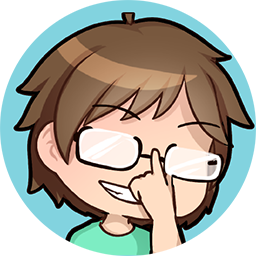
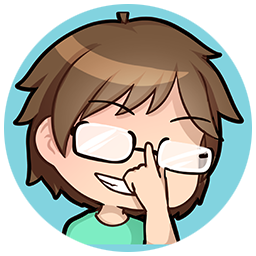
Refresh settings layout and menu integration

diff --git a/ClockAndVolume/UI/MenuButtonManager.cs b/ClockAndVolume/UI/MenuButtonManager.cs
@@ -20,12 +20,12 @@ namespace ClockAndVolume.UI
 
 		public void Initialize()
 		{
-			MenuButtons.instance.RegisterButton(menuButton);
+			MenuButtons.Instance.RegisterButton(menuButton);
 		}
 
 		public void Dispose()
 		{
-			MenuButtons.instance.UnregisterButton(menuButton);
+			MenuButtons.Instance.UnregisterButton(menuButton);
 		}
 
 		private void SummonFlowCoordinator()

diff --git a/ClockAndVolume/Properties/AssemblyInfo.cs b/ClockAndVolume/Properties/AssemblyInfo.cs
@@ -31,5 +31,5 @@ using System.Runtime.InteropServices;
 // You can specify all the values or you can default the Build and Revision Numbers 
 // by using the '*' as shown below:
 // [assembly: AssemblyVersion("1.0.*")]
-[assembly: AssemblyVersion("1.1.1")]
-[assembly: AssemblyFileVersion("1.1.1")]
+[assembly: AssemblyVersion("1.1.3")]
+[assembly: AssemblyFileVersion("1.1.3")]
